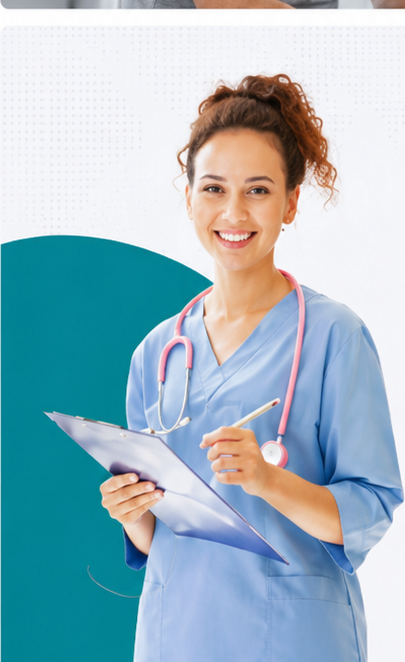
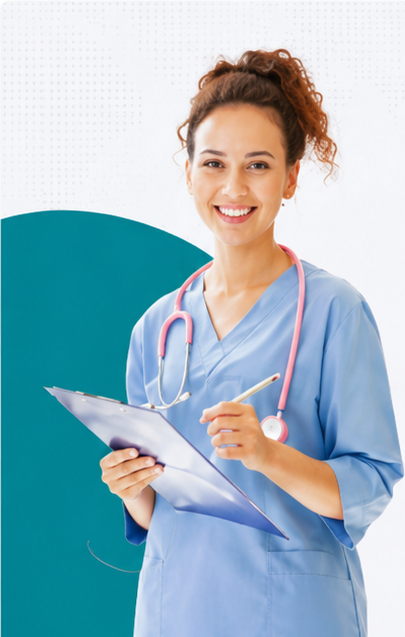
Make sidebar CTA a full-card image background with neutral readability overlay

diff --git a/src/sections/services/ServiceSidebar/ServiceSidebarCta.tsx b/src/sections/services/ServiceSidebar/ServiceSidebarCta.tsx
@@ -11,8 +11,23 @@ export function ServiceSidebarCta() {
   const language = useLanguage();
 
   return (
-    <div className="overflow-hidden rounded-2xl text-white" style={{ background: "linear-gradient(160deg, #0E5C69 0%, #0B8995 100%)" }}>
-      <div className="px-6 pb-5 pt-[26px]">
+    <div className="relative min-h-[520px] overflow-hidden rounded-2xl text-white">
+      <img
+        src={ctaPortraitImage}
+        alt={t("servicePage.sidebarCta.portraitAlt")}
+        className="absolute inset-0 z-0 h-full w-full object-cover object-[50%_35%]"
+        loading="lazy"
+      />
+
+      <div
+        className="pointer-events-none absolute inset-0 z-[1]"
+        style={{
+          background:
+            "linear-gradient(180deg, rgba(0,0,0,0.48) 0%, rgba(0,0,0,0.32) 28%, rgba(0,0,0,0.12) 48%, rgba(0,0,0,0) 68%)",
+        }}
+      />
+
+      <div className="relative z-[2] px-6 pt-[26px]">
         <h3 className="m-0 text-[22px] font-bold leading-[1.2] tracking-[-0.4px]">
           {t("servicePage.sidebarCta.heading")}
         </h3>
@@ -27,13 +42,6 @@ export function ServiceSidebarCta() {
           <ArrowRightIcon size={15} className="transition-transform duration-200 ease-out group-hover:translate-x-[3px]" />
         </Link>
       </div>
-
-      <img
-        src={ctaPortraitImage}
-        alt={t("servicePage.sidebarCta.portraitAlt")}
-        className="block h-[280px] w-full object-cover"
-        loading="lazy"
-      />
     </div>
   );
 }
